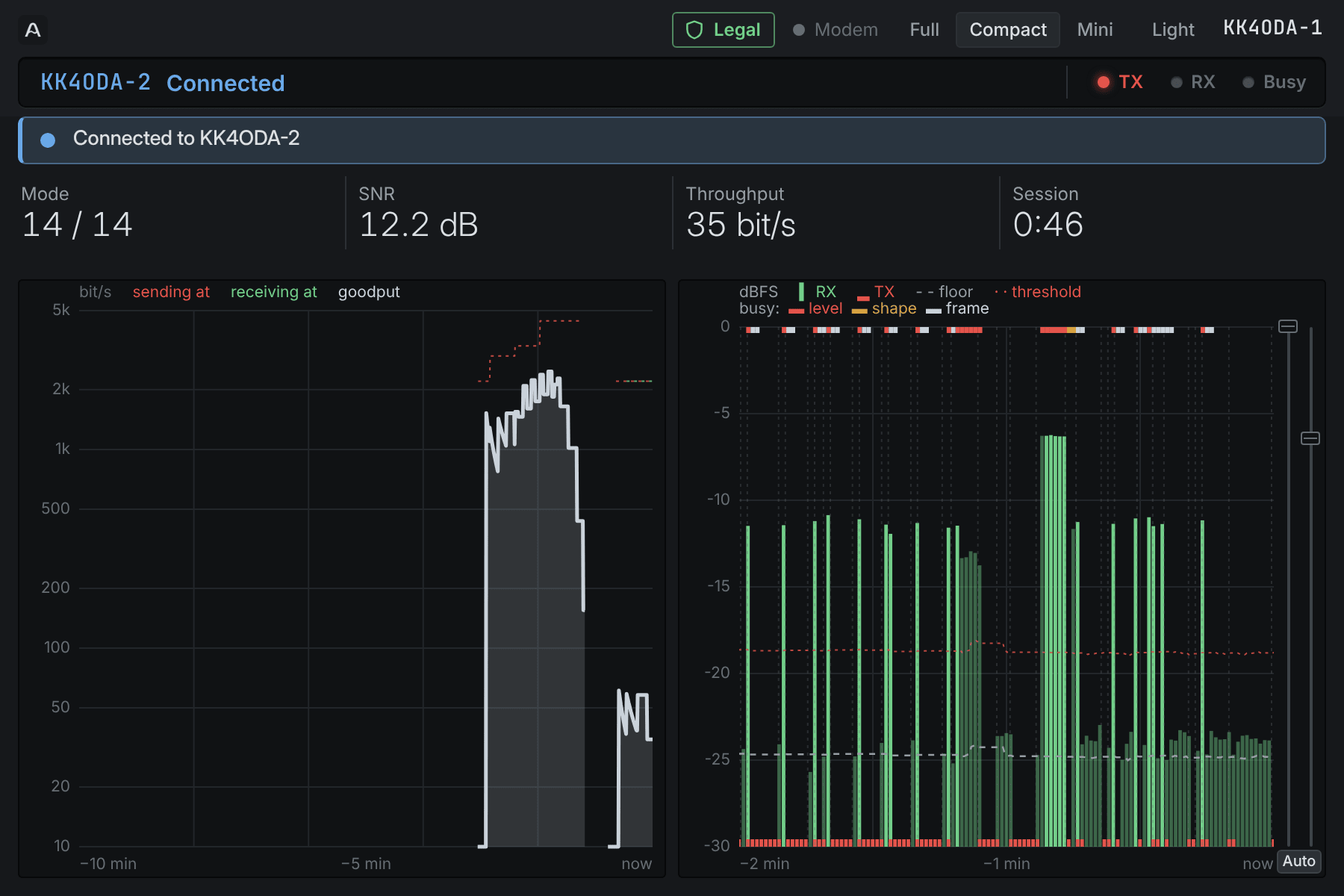
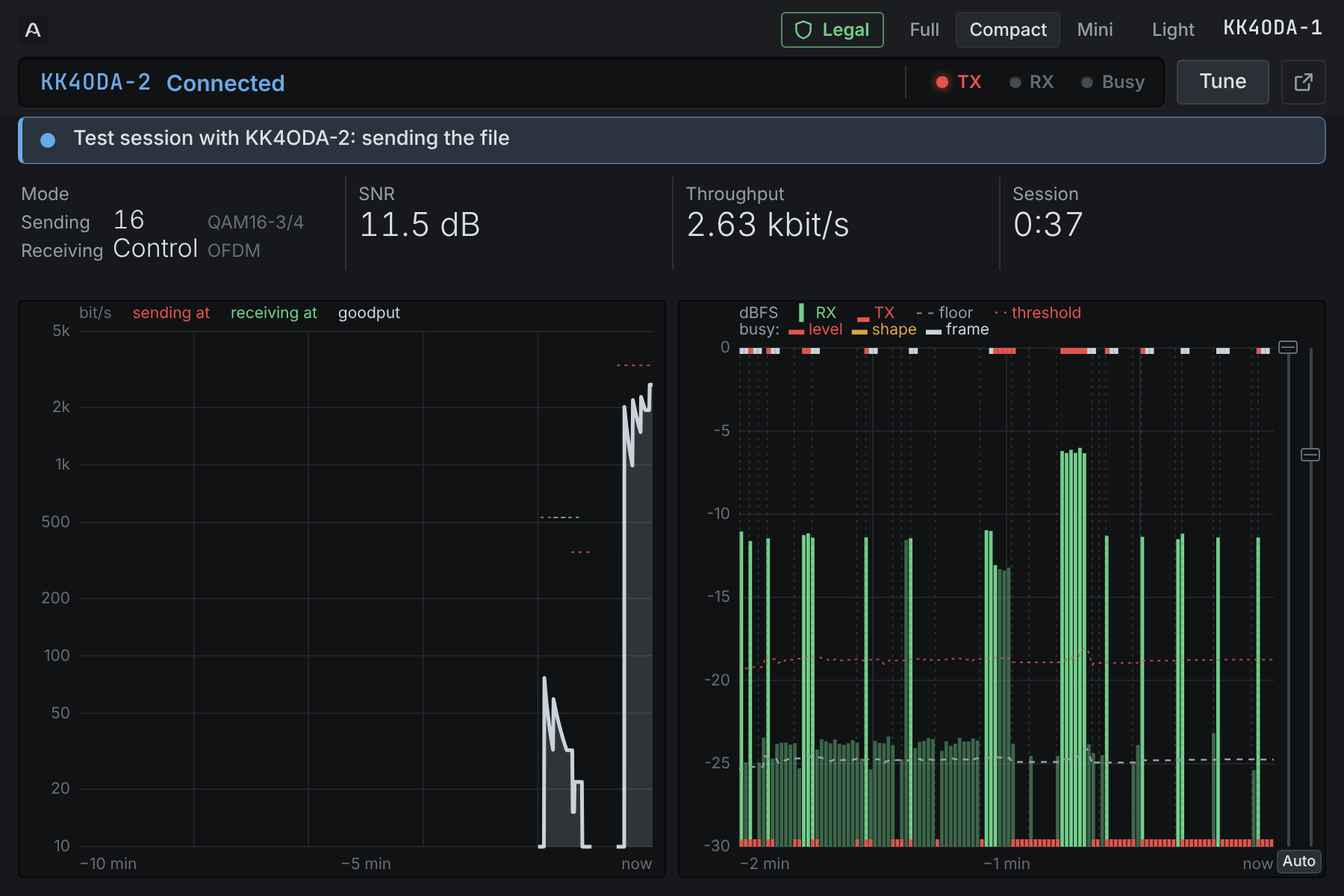
docs(readme): beta.178's features, new screenshots, and report 22
The README had stopped at beta.166. It now has: the sound card that
comes back (ADR-0137); the OFDM estimate that takes the delay out before
it interpolates (ADR-0131); hand-overs that wait for the program and a
DISC that carries the acknowledgement (ADR-0135); Winlink Express's
inactivity timer held while its message can arrive within 15 minutes
(ADR-0134), with that evening's 80 m sessions (report 22); the keyed-audio
watch that knows the station's own signal (ADR-0136); a listening
program's bandwidth; the Status tab's Mode a row each way; banners in
Compact and Mini with an x; Setup showing the station's own callsign and
bandwidth greyed beside what is in use; the panel checked in CI. The
program finder has one row per install, its profiles named for the
install's folder, and the picture's caption says so. The operator-facing
lines say external program. Phase 10 (Aether FM) had read back burner;
it started on 2026-11-13.

The nine panel screenshots were from beta.143 (2026-11-08), before the
Mode tile's two rows, Setup's External programs and Aether callsign,
Tune in Compact and the rung hidden outside a session. Retaken from two
beta.178 daemons joined by [sim] in /home/user/aether-bench, as before:
a probe, beacons, a typed conversation and a Test at 12 dB (Session,
Status, Compact, Light, Log), then a Test at 24 dB for the receiving
station's Diagnostics (a 64-QAM 5/6 frame), its signal window, and
Stations and Setup once the ended-session banner had gone. Taken at
[…]

diff --git a/README.md b/README.md
@@ -13,12 +13,13 @@ rules before the radio keys, and the same modem runs as a desktop application on
 Linux and macOS or headless on a Raspberry Pi gateway.
 
 > **Status: beta, on the air.** Signed builds ship from
-> [Releases](https://github.com/KK4ODA/aether-hf/releases) (`0.2.0-beta.166` at the time of
+> [Releases](https://github.com/KK4ODA/aether-hf/releases) (`0.2.0-beta.178` at the time of
 > writing): a Windows installer, Linux `.deb` and AppImage packages, an unsigned macOS build for
 > Apple Silicon, and the standalone `aetherd` daemon for gateways, with in-place updates on a
 > beta channel. Aether has been on the air with other stations on 80 m and 40 m since
 > 2026-09-23: conversations, Test sessions, Winlink through an Aether gateway since
-> 2026-11-06, RadioPost mail since 2026-11-12, and VarAC. Each problem the air turns up becomes a
+> 2026-11-06, RadioPost mail since 2026-11-12, VarAC, and Winlink Express peer to peer since
+> 2026-11-24. Each problem the air turns up becomes a
 > scenario in the test harness before it becomes a fix ([`field/LOG.md`](field/LOG.md),
 > [`docs/research/link-architecture/`](docs/research/link-architecture/README.md)).
 >
@@ -91,6 +92,14 @@ answered in short OFDM frames, which the portable heard well. While the TX-500 t
 its own signal back to the sound card, so the portable's waterfall shows its own transmissions;
 the FTDX10 goes quiet instead.</sub>
 
+That evening the same two stations made seven more sessions on 80 m, six at 500 Hz carrying a few
+kilobytes each. The last tried a 161.6 kB file at 2300 Hz on a path at about −1 dB, and showed
+that Winlink Express gives up on a P2P session 300 s after it last sent anything, while the
+modem is still delivering its message. Aether now holds that disconnect as long as what is queued
+could go within 15 minutes, with a banner that offers **Disconnect** and **Abort**
+([report 22](docs/research/link-architecture/22-wle-p2p-80m-beta175.md),
+[ADR-0134](docs/adr/0134-a-programs-inactivity-timer-is-not-its-operator.md)).
+
 ## Works with Winlink apps
 
 Winlink's own programs talk to Aether as they talk to VARA. They use VARA HF's published host
@@ -113,16 +122,18 @@ turns their own settings into Aether profiles:
    (`C:\RMS Express`, `C:\RMS\…`), Windows' list of installed programs, Start-menu and desktop
    shortcuts and the programs running, plus any folder you add. A test copy, a second gateway or
    a copy on another drive each get a row of their own, told apart by their folder.
-2. **One row per setup.** Winlink Express gets a row for each callsign it is set up for, RMS
-   Trimode one per gateway, RMS Packet one per channel. Each row shows the version, whether the
-   program is running, and the TNC port it points at (*Aether* when it is this Aether's).
+2. **One row per install.** Each copy of Winlink Express or RMS Trimode gets one row, with its
+   callsigns (the one in use first); RMS Packet gets one per channel. Each row shows the version,
+   whether the program is running, and the TNC port it points at (*Aether* when it is this
+   Aether's).
 3. **Tick a row and it is set up.** A window first says what will change in the program, what
    its Aether profile will hold, and anything you must still do yourself. **Set up** changes the
    program's settings so it reaches Aether (with the program closed, the old file kept beside
-   it), makes the profile, named for the program and the callsign (*Winlink Express KK4ODA*),
-   and switches to it. **Make a copy first** sets up a copy of Winlink Express instead, and
-   leaves the one you have for VARA. Each profile sets:
-   - the program's callsign and bandwidth (VARA's 2750 runs as 2300);
+   it), makes the profile, named for the program and its folder (*Winlink Express TS480* for
+   `C:\RMS Express_TS480`, so each copy for each radio has its own), and switches to it. **Make
+   a copy first** sets up a copy of Winlink Express instead, mail included, and leaves the one you
+   have for VARA. Each profile sets:
+   - the callsign in use and the program's bandwidth (VARA's 2750 runs as 2300);
    - the port the program already uses, so Aether listens there;
    - for a gateway, automatic control and waiting for a clear channel;
    - who keys the radio.
@@ -142,10 +153,10 @@ Aether changes a program's settings only when you set it up or go back, never wh
 only the settings it shows. A setup above 30 MHz, or one whose only TNC is VARA FM or AGW, waits
 for Aether FM and cannot be ticked.
 
-![Setup step 5's Winlink programs: four installs and six setups found. Winlink Express N1CALL in C:\RMS Express is ticked, set up for Aether and keyed by Winlink Express; N2CALL beside it, a test copy of Winlink Express on port 8310 and the RMS Trimode gateway N1CALL-1 are not, each with its Keying list; RMS Packet's VARA FM channel and packet port for N1CALL-10 cannot be ticked](docs/manual/screens/hostapps.png)
+![Setup step 5's Winlink programs: Find, Add folder, and four installs. Winlink Express in C:\RMS Express, with the callsigns N1CALL and N2CALL, is ticked, set up for Aether and keyed by Winlink Express; a test copy of Winlink Express on port 8310 and the RMS Trimode gateway N1CALL-1 are not, each with its Keying list; RMS Packet's VARA FM channel and packet port for N1CALL-10 cannot be ticked](docs/manual/screens/hostapps.png)
 
 <sub>Setup step 5 on a computer with two copies of Winlink Express, an RMS Trimode gateway and RMS
-Packet (example data). Winlink Express N1CALL is set up for Aether.</sub>
+Packet (example data). Winlink Express in `C:\RMS Express` is set up for Aether.</sub>
 
 ### What a session looks like
 
@@ -199,9 +210,9 @@ and [RMS Packet](docs/user/rms-packet.md).
 
 ## Screenshots
 
-Two stations on one machine, joined by the simulated channel at 12 dB SNR. The calling
-station's Session tab during a Test session, as the Test measures the top of the ladder: the
-dial and the rules' verdict, the call and the Test's progress, keying and drive, the
+Two stations (`0.2.0-beta.178`) on one machine, joined by the simulated channel at 12 dB SNR.
+The calling station's Session tab during a Test session, as the Test measures the top of the
+ladder: the dial and the rules' verdict, the call and the Test's progress, keying and drive, the
 conversation and the recorder. The display well across the top shows the same on every tab:
 what the station is doing, the rung and its rate, the SNR, and the TX, RX and Busy lamps.
 
@@ -210,11 +221,12 @@ what the station is doing, the rung and its rate, the SNR, and the TX, RX and Bu
 <table>
 <tr>
 <td width="50%"><img src="docs/images/panel-status.png" alt="The Status tab during the Test's file transfer"></td>
-<td width="50%"><img src="docs/images/panel-diagnostics.png" alt="The receiving station's Diagnostics tab, a 64-QAM frame on its constellation"></td>
+<td width="50%"><img src="docs/images/panel-diagnostics.png" alt="The receiving station's Diagnostics tab, a 64-QAM 5/6 frame on its constellation"></td>
 </tr>
 <tr>
-<td><sub><b>Status</b> while the Test sends its file: the link and the channel at a glance, the
-speed against the rate of the rung in use, the channel's bursts and acknowledgements, and the
+<td><sub><b>Status</b> while the Test sends its file: the link and the channel at a glance
+(<b>Mode</b> a row each way, <i>Control</i> while the other station only answers), the speed
+against the rate of the rung in use, the channel's bursts and acknowledgements, and the
 counters.</sub></td>
 <td><sub><b>Diagnostics</b> at the receiving station, on a 24 dB path: a 64-QAM frame's
 constellation, the spectrum and waterfall with red lines at this station's occupied bandwidth,
@@ -233,21 +245,22 @@ and the modem, every setting kept in named profiles.</sub></td>
 </tr>
 <tr>
 <td><img src="docs/images/panel-light.png" alt="The Session tab in the Light theme during a keyboard conversation"></td>
-<td><img src="docs/images/panel-compact.png" alt="The Compact view during a session"></td>
+<td><img src="docs/images/panel-compact.png" alt="The Compact view during the Test's file transfer: Tune and the signal window's button beside the display, Mode sending at 16 and receiving control frames, the SNR, the throughput, the session's time, and the speed and channel plots"></td>
 </tr>
 <tr>
 <td><sub><b>Light</b>, for a screen in daylight, during a conversation: what was sent stays in the
 Send box and gets a ✓ once the other station has all of it.</sub></td>
-<td><sub><b>Compact</b>: the state, the four readings that matter and both plots, small enough
-to sit beside a host program.</sub></td>
+<td><sub><b>Compact</b>: the state, <b>Tune</b> and the signal window's button, the four readings
+that matter and both plots, small enough to sit beside the programs that use it.</sub></td>
 </tr>
 <tr>
-<td><img src="docs/images/signal-window.png" alt="The undocked signal window's Compact view, a transfer's OFDM bursts on the waterfall"></td>
+<td><img src="docs/images/signal-window.png" alt="The undocked signal window's Compact view at the receiving station during a Test: the probe on the tone floor, then the session's OFDM bursts, between red lines at the signal's edges"></td>
 <td><img src="docs/images/panel-log.png" alt="The Log tab during a Test session"></td>
 </tr>
 <tr>
 <td><sub>The <b>undocked signal window</b> (Compact view): spectrum and waterfall in a window of
-their own, with a Busy lamp and Tune, here during a transfer.</sub></td>
+their own, with a Busy lamp and Tune, here at the receiving station during a Test: its probe on
+the tone floor, then the session's OFDM bursts.</sub></td>
 <td><sub><b>Log</b>: one line an entry, tagged and filtered, with <b>Send files…</b> for logs and
 recordings.</sub></td>
 </tr>
@@ -358,6 +371,11 @@ cover everything else it does.
 * A receiver that **weighs each OFDM carrier by its own noise**, so a narrowband interferer
   inside the passband costs the carriers it sits on, not the frame
   ([ADR-0043](docs/adr/0043-per-carrier-noise-and-the-rv-order.md)).
+* An OFDM **channel estimate that takes the path's delay out before it interpolates** between
+  pilots, so a channel whose phase turns quickly across the band is followed: 44 % more frames
+  decoded on ITU Poor at both bandwidths, and no point of the bench more than a frame worse
+  ([ADR-0131](docs/adr/0131-the-channel-estimate-takes-the-delay-out-before-it-interpolates.md),
+  [`channel_estimate.csv`](bench/baselines/channel_estimate.csv)).
 * Receivers that read **the shape of the noise across the band**, from the pilots and the
   tones, so a radio filter that cuts into the signal, noise and all, no longer reads as a bad
   channel ([ADR-0104](docs/adr/0104-the-receivers-read-the-noise-across-the-band.md)).
@@ -390,24 +408,30 @@ cover everything else it does.
 * **Beacons**: the station's callsign on the tone floor, once or every 10–60 minutes while
   someone is at the station; never under automatic control.
 * **Datagrams** outside sessions, for KISS programs, at a rung both bandwidths hear.
-* An orderly **disconnect** that delivers what is queued for a minute at most, then closes;
-  **Abort** to leave at once, with the other station told.
+* An orderly **disconnect** that delivers what is queued for a minute at most, then closes, and
+  closes at once when what is queued could not go in that minute at the session's rate; its last
+  frame acknowledges the other station's last data, so no round is spent on it. **Abort** leaves
+  at once, with the other station told.
+* **Hand-overs that wait for the program**: after the other station's last data, a station gives
+  its program about a third of a second to answer before it takes its turn, so a Winlink reply
+  goes out in the next transmission rather than an exchange later (Winlink-shaped sessions about
+  9 % shorter on the harness; [ADR-0135](docs/adr/0135-hand-overs-and-endings.md)).
 * **Closing identification** handled for you: each station's identifier is the last thing it
   sends for a session, after the other's goodbye, never over it; a US callsign always identifies
   (§97.119), without its SSID. It goes in Morse, within the 20 wpm cap on an automatic
   identifier, or in Aether's own signal if Setup step 4 says so
   ([ADR-0127](docs/adr/0127-identify-in-the-data-signal.md)).
 * **Several callsigns**: a station answers to its own, and each program attached answers for
-  the callsigns it claims (a host program's `MYCALL`), with SSIDs and `/` suffixes.
+  the callsigns it claims (an external program's `MYCALL`), with SSIDs and `/` suffixes.
 
 ### Working with the radio
 
 * **Keying** by a serial port's RTS or DTR line, by the radio's own **CAT** command (Yaesu,
   Kenwood, Icom CI-V), through **rigctld** (Hamlib) or **FLRig**, by a **CM108-class** codec's
-  GPIO pin (DRA, URI), by **VOX**, or by the **host program** on `PTT ON`/`PTT OFF`.
+  GPIO pin (DRA, URI), by **VOX**, or by the **external program** on `PTT ON`/`PTT OFF`.
 * Over CAT, rigctld or FLRig, Aether **reads the dial** once a second when idle and **tunes the
-  radio** when a dial memory is picked; with FLRig or rigctld a host program can tune through the
-  same radio at the same time.
+  radio** when a dial memory is picked; with FLRig or rigctld an external program can tune
+  through the same radio at the same time.
 * **Dial memories** seeded from the project's calling-frequency plan for 80 m to 6 m
   ([`docs/user/frequency-plan.md`](docs/user/frequency-plan.md)), and *Dial is at* for a radio
   that cannot report its dial.
@@ -419,6 +443,12 @@ cover everything else it does.
   that cuts the signal shows at a glance, and a banner says when the receive audio clips.
 * A **key watchdog** (30 s by default), whole bursts handed to the sound card at once, and the
   key released by the sound card's own clock, not a guess.
+* **A sound card that comes back**: one missing at start or unplugged mid-run is tried again
+  every second (every 10 s after a minute) and taken back when it returns; meanwhile nothing
+  keys, the key is let go, and the panel and any external program are told. On Windows a USB
+  codec plugged into another port comes back under a new name (*2- USB Audio CODEC*); Aether
+  finds it and uses it, and **Keep** saves the name
+  ([ADR-0137](docs/adr/0137-the-sound-card-comes-back.md)).
 * ★ **Turnaround** declared in the call, so the other station waits for this radio to hear
   again; an **answer gap** for a VOX station that does not declare one, also **learned per
   station** from its calling again.
@@ -433,9 +463,10 @@ cover everything else it does.
   quiet one and about 19 s where a call is heard under way. The radio never moves during a
   contact, and the knob or the panel's Stop ends the scan
   ([ADR-0129](docs/adr/0129-the-station-scans-for-a-program.md)).
-* The first transmission after a host program attaches is checked: if the receive audio does
-  not fall while keyed, the log says the radio may not be transmitting. The check listens in
-  1–2.5 kHz, clear of any interface's hum.
+* The first transmission after an external program attaches is checked: if the receive audio
+  does not fall while keyed, and is not the station's own signal coming back (a TX-500 returns
+  it), the log says the radio may not be transmitting. The check listens in 1–2.5 kHz, clear of
+  any interface's hum ([ADR-0136](docs/adr/0136-the-keyed-audio-watch-knows-its-own-signal.md)).
 
 ### The rules, built in
 
@@ -464,16 +495,17 @@ cover everything else it does.
   profile, *VarAC default*. Switch VarAC's profile to run it on Aether, and back to run it on
   VARA. After an update that changes what VarAC needs, Aether offers to bring both up to date.
 * **Winlink's programs found** (Windows): Setup lists every install of Winlink Express, RMS
-  Trimode and RMS Packet on the computer, one row per callsign, with the port each points at, and
+  Trimode and RMS Packet on the computer, one row per install, with the port each points at, and
   makes an Aether profile of the ones ticked from their own radio and TNC settings (callsign,
   bandwidth, keying, port). It changes a program's own settings (Winlink Express's *Auto Launch
   Vara*, the program Trimode starts as its VARA) only when asked, with the program closed, and
   keeps the old file.
 * Either side can own the radio: **Aether keys** (CAT, rigctld, FLRig, serial, CM108, VOX), or
-  the **host program keys** and tunes it on Aether's `PTT ON`/`PTT OFF`.
+  the **external program keys** and tunes it on Aether's `PTT ON`/`PTT OFF`.
 * **One place for each setting**: while a program is attached, its callsign and its `BW500`
-  / `BW2300` / `BW2750` set the station's, and the station's own (which Setup shows) come back
-  when it leaves; the program sees only its own sessions.
+  / `BW2300` / `BW2750` set the station's. Setup keeps showing the station's own, greyed, with
+  what is in use beside it (*In use: 2300 Hz · external program*), and they come back when it
+  leaves; the program sees only its own sessions.
 * ★ **Several programs on one station**: a program on the host port and programs on the control
   API each claim their own callsigns, with answering off until they say. A call is answered only
   while the program holding its callsign listens, the session is that program's alone, and the
@@ -482,12 +514,19 @@ cover everything else it does.
   ([ADR-0106](docs/adr/0106-each-program-answers-for-its-own-callsigns.md),
   [ADR-0107](docs/adr/0107-under-automatic-control-only-a-program-answers-and-its-session-goes-with-it.md)).
 * While any program is attached it speaks for the station: the station's own callsigns no
-  program holds are not answered, and Setup step 1's callsign box names the program whose
-  callsign is in use
+  program holds are not answered, and Setup step 1 says whose callsign is in use (*In use:
+  N1CALL-10 · RadioPost Gateway*)
   ([ADR-0108](docs/adr/0108-every-program-speaks-for-the-station-and-setup-says-whose-callsign-it-is.md)).
 * `BUFFER` is said again every 50 s while the count stands still, so a program that waits on it
   (Pat's VARA driver gives up after a minute) does not drop a slow session
   ([ADR-0109](docs/adr/0109-a-count-that-stands-still-is-said-again.md)).
+* A program's **inactivity timer is not taken for its operator**: Winlink Express hangs up a P2P
+  session five minutes after it sent its message, and Aether holds that `DISCONNECT` while what is
+  queued could still go within 15 minutes, with a banner offering **Disconnect** and **Abort**
+  ([ADR-0134](docs/adr/0134-a-programs-inactivity-timer-is-not-its-operator.md)).
+* A program **listening for calls** can ask for the widest bandwidth, so the station answers calls
+  at 2300 Hz and 500 Hz alike while it listens (RadioPost's P2P listener does); the request goes
+  with the program, and gives way to a bandwidth another program chose.
 * A **KISS-over-TCP port** (127.0.0.1:8100) for APRS and packet programs and VarAC's broadcasts,
   several clients at once, with ACKMODE; each frame goes on the air as a datagram that any
   Aether station hears ([`docs/user/kiss.md`](docs/user/kiss.md)).
@@ -495,27 +534,32 @@ cover everything else it does.
   station does; a program on it claims its callsigns and is told which sessions are its own.
   Loopback by default, and a token required on any other address
   ([`docs/spec/control-api.md`](docs/spec/control-api.md)).
-* **One instance**: a host program launching Aether while it runs brings up its window.
+* **One instance**: an external program launching Aether while it runs brings up its window.
 
 ### The station panel
 
 * A **display well** across the top of every tab: the state and the other station, the dial,
-  the rung and its rate each way, the SNR, and the TX, RX and Busy lamps, plus the rules badge
-  and a Modem lamp.
-* **Full**, **Compact** and **Mini** views, and a **Light** theme for daylight and sunlight
-  (lit lamps become filled blocks in glare).
-* **Banners** across every tab: the session (and whose it is, when a program's), setup still
-  needed, unsaved changes, a station in another bandwidth, protocol or SSID (with buttons that
-  fix it), clipped receive audio (in Compact too), and faults; a **chime** when a session comes up and when it ends.
+  the rung each way during a session, the SNR, and the TX, RX and Busy lamps, plus the rules
+  badge and a Modem lamp.
+* **Full**, **Compact** and **Mini** views, with **Tune** and the signal window's button beside
+  the display well in the small ones, and a **Light** theme for daylight and sunlight (lit lamps
+  become filled blocks in glare). Each view keeps its size and the window its place.
+* **Banners** across every tab, in Compact and Mini too: the session (and whose it is, when a
+  program's), the identifier still owed after a call nobody answered, setup still needed,
+  unsaved changes, a station in another bandwidth, protocol or SSID (with buttons that fix it), a
+  program's disconnect held, clipped receive audio, a sound card back in another USB port, and
+  faults; an **×** puts one away until there is something new. A **chime** when a session comes
+  up and when it ends.
 * A chip naming the **programs using the station** and whether each is answering, with the
   callsigns each answers for in its tooltip.
 * **Session**: the dial and its legality, call, probe, beacon and Test, keying and drive, the
   conversation, and the recorder.
 * A **Send box that tracks delivery**: what was sent stays with its time and turns ✓ only when
   the other station has all of it, in order, or ✗ if the session ended first.
-* **Status**: link and channel readings, the speed over ten minutes on a log scale against the
-  rate of the rung each way, the SNR of every frame against the rung's threshold, the
-  channel's level and busy periods with adjustable axes, and counters.
+* **Status**: link and channel readings (**Mode** with a row each way, *Sending* and
+  *Receiving*, which says *Control* while the other station only answers), the speed over ten
+  minutes on a log scale against the rate of the rung each way, the SNR of every frame against
+  the rung's threshold, the channel's level and busy periods with adjustable axes, and counters.
 * **Stations**: the 200 stations heard most recently, with bandwidth, beacons and filters, and
   the last 500 sessions with what crossed each way, the fastest rung each way, how each station
   heard the other and how the session ended.
@@ -581,6 +625,9 @@ cover everything else it does.
   ([ADR-0042](docs/adr/0042-the-scenario-harness.md), [`bench/scenarios/`](bench/scenarios/)).
 * **Strict tests**: no threshold is ever relaxed to make a suite pass; a known defect is a
   strict `xfail` that names it.
+* **The panel checked in a browser**: the manual's screenshots are taken of the real panel fed
+  made-up data, and CI drives the same scenes in headless Chrome and checks what each shows
+  (`tools/manual/panel_check.mjs`).
 * **Fuzzing** of every parser that takes bytes from outside: frames off the air, datagram
   fragments, the decompressor, the KISS port and the host program's commands
   ([`core/fuzz/`](core/fuzz/README.md)).
@@ -635,7 +682,7 @@ cover everything else it does.
 [RadioPost](https://github.com/KK4ODA/RadioPost) is email by amateur radio with no central server:
 ordinary email addresses, gateways any licensed amateur can run, post offices that clubs and
 groups run, and forwarding by radio when the Internet is down. It is a separate project with its
-own specifications, in early design, and it is not compatible with Winlink. Aether is its first
+own specifications, in beta and on the air, and it is not compatible with Winlink. Aether is its first
 modem; RadioPost does not depend on it.
 
 RadioPost programs drive a modem through RadioPost's modem interface (RPMI,
@@ -688,12 +735,12 @@ distilled from how the community has received other open HF modems are in
 | 2 — Link robustness | ARQ, rate control, HARQ-IR, low-SNR modes, PAPR, impulse noise | done |
 | 3 — Application integration | Rust core bit-exact with the model, `aetherd`, PTT/CAT, control API, host interface, gateway kit | done; Winlink Express, Pat, VarAC and RMS Trimode pass the bench |
 | 4 — Desktop application | station panel, Tauri shell, setup, diagnostics, accessibility | done; the three-ham usability test is open |
-| 5 — Release infrastructure | one version number, installers that bundle the daemon, signed updates on three channels, SBOM, benchmark gate | done — betas flow, `0.2.0-beta.2` through `.166` |
+| 5 — Release infrastructure | one version number, installers that bundle the daemon, signed updates on three channels, SBOM, benchmark gate | done — betas flow, `0.2.0-beta.2` through `.178` |
 | 6 — Field validation | recordings, replay, simulated channel, field protocol, the air, on-air crowdsourcing (the Test session) | **in progress**: on the air with other stations since 2026-09-23, Winlink through an Aether gateway since 2026-11-06, RadioPost mail since 2026-11-12; granted slots (link protocol 8 onwards), the scenario harness and the rate controller's reviews came from those sessions |
 | 7 — The 500 Hz waveform and the link probe | the bandwidth peer-to-peer contacts use, the bandwidth in the handshake, answer-only, a two-way probe | done |
 | 9 — The modem's second rung | a faster start, the tone floor and the middle tone kinds, fading and NVIS receivers, an A/B bench against another modem, the deferred pilot/prefix/2750 Hz experiments, time diversity — each with its curve | **in progress**: the tone floor, fast tones and four-tone kinds, fast-fading and echo-aware receivers, stuck frames in pieces done; the A/B runs and P9-3 open; time diversity paused |
 | 8 — Aether on a phone | the modem in a Pi-sized box the phone talks to, then a phone app, then the modem in the phone | back burner |
-| 10 — Aether FM foundation | an FM PHY on the same link layer | back burner |
+| 10 — Aether FM | an FM modem on the same link layer, with legacy packet and the level set by the far station's measurement | **started 2026-11-13**: the plan and its thirteen ADRs written, the daemon behind a PHY boundary (proven unchanged for HF), the FM channel model and its recording bench built; recordings of real radios wait for a dummy load and an attenuator |
 
 ## Architecture in one paragraph
 
